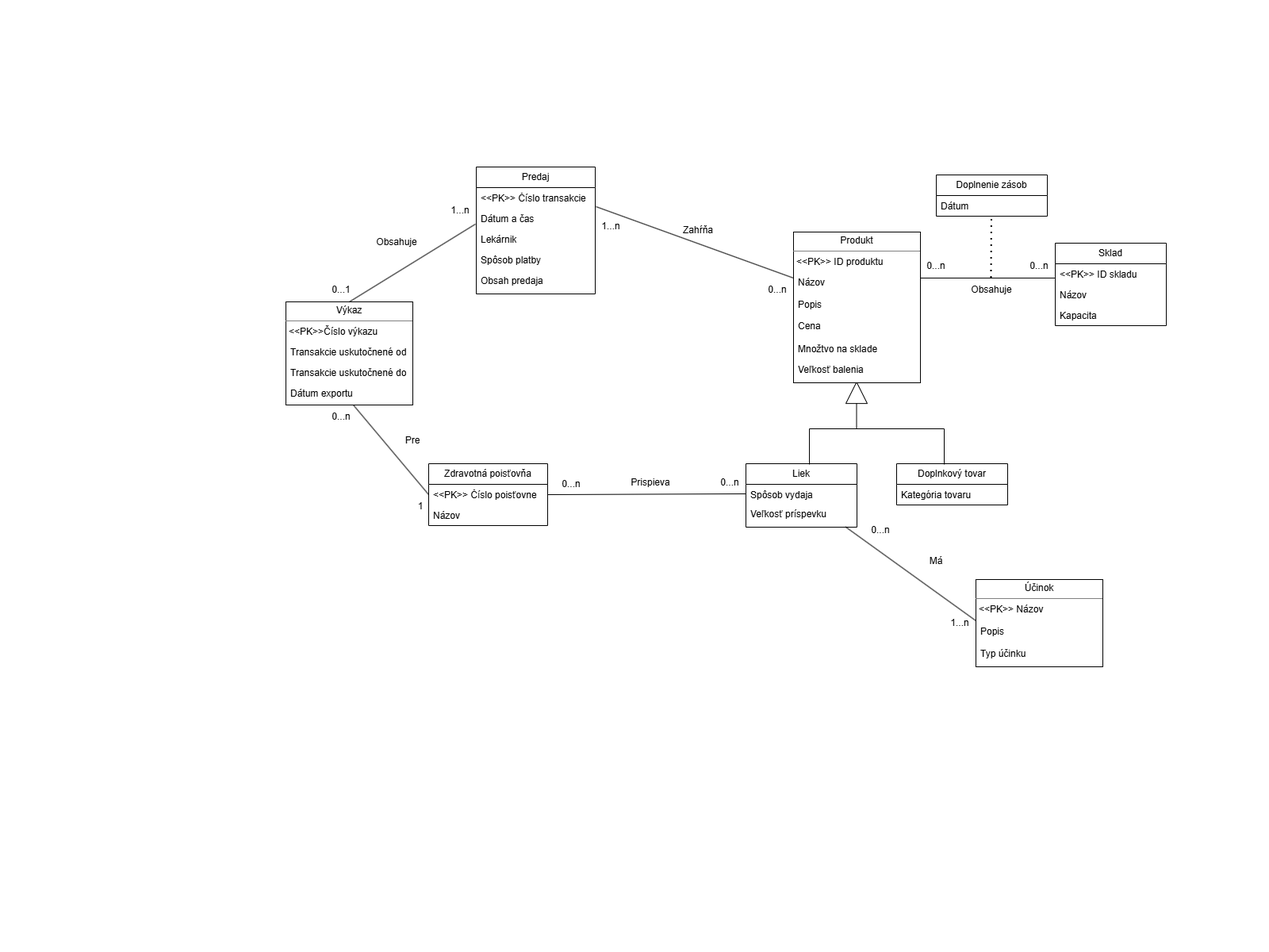
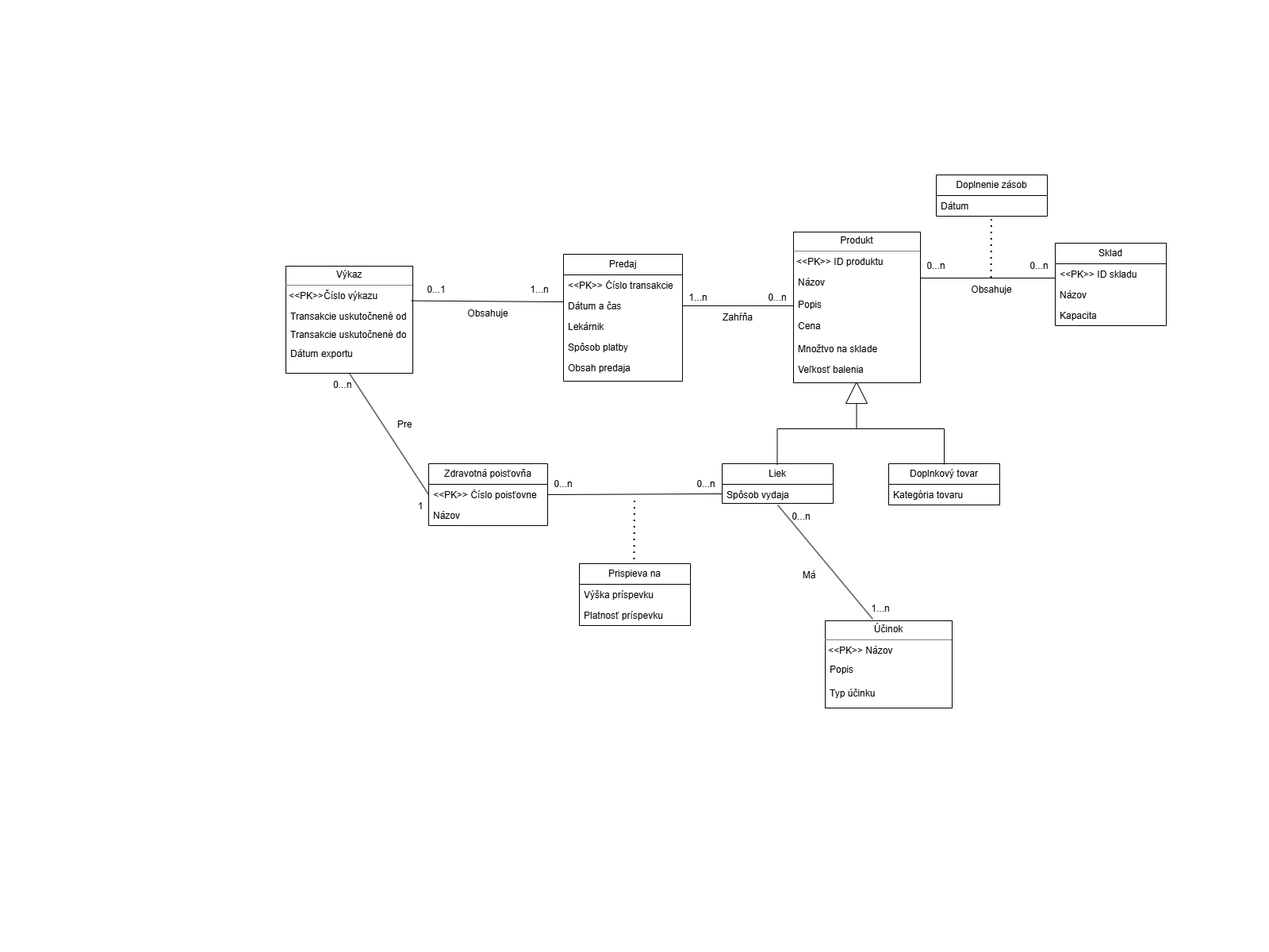
Improved design and added small changes to ERD

diff --git a/ERD_src.drawio.html b/ERD_src.drawio.html
@@ -1,0 +1,11 @@
+<!--[if IE]><meta http-equiv="X-UA-Compatible" content="IE=5,IE=9" ><![endif]-->
+<!DOCTYPE html>
+<html>
+<head>
+<title>ERD_src</title>
+<meta charset="utf-8"/>
+</head>
+<body><div class="mxgraph" style="max-width:100%;border:1px solid transparent;" data-mxgraph="{&quot;highlight&quot;:&quot;#0000ff&quot;,&quot;nav&quot;:true,&quot;resize&quot;:true,&quot;dark-mode&quot;:&quot;auto&quot;,&quot;toolbar&quot;:&quot;zoom layers tags lightbox&quot;,&quot;edit&quot;:&quot;_blank&quot;,&quot;xml&quot;:&quot;&lt;mxfile host=\&quot;app.diagrams.net\&quot; agent=\&quot;Mozilla/5.0 (Windows NT 10.0; Win64; x64) AppleWebKit/537.36 (KHTML, like Gecko) Chrome/145.0.0.0 Safari/537.36\&quot; version=\&quot;29.6.0\&quot;&gt;\n  &lt;diagram name=\&quot;Page-1\&quot; id=\&quot;HZyEYh7M0IWm2Qcd70Ao\&quot;&gt;\n    &lt;mxGraphModel dx=\&quot;1826\&quot; dy=\&quot;777\&quot; grid=\&quot;1\&quot; gridSize=\&quot;10\&quot; guides=\&quot;1\&quot; tooltips=\&quot;1\&quot; connect=\&quot;1\&quot; arrows=\&quot;1\&quot; fold=\&quot;1\&quot; page=\&quot;0\&quot; pageScale=\&quot;1\&quot; pageWidth=\&quot;827\&quot; pageHeight=\&quot;1169\&quot; background=\&quot;none\&quot; math=\&quot;0\&quot; shadow=\&quot;0\&quot;&gt;\n      &lt;root&gt;\n        &lt;mxCell id=\&quot;0\&quot; /&gt;\n        &lt;mxCell id=\&quot;1\&quot; parent=\&quot;0\&quot; /&gt;\n        &lt;mxCell id=\&quot;cHTT3dFJlnLi15qpV_ud-13\&quot; edge=\&quot;1\&quot; parent=\&quot;1\&quot; style=\&quot;rounded=0;orthogonalLoop=1;jettySize=auto;html=1;endArrow=block;endFill=0;endSize=26;startSize=9;targetPerimeterSpacing=0;\&quot;&gt;\n          &lt;mxGeometry relative=\&quot;1\&quot; as=\&quot;geometry\&quot;&gt;\n            &lt;mxPoint x=\&quot;679.5\&quot; y=\&quot;540\&quot; as=\&quot;sourcePoint\&quot; /&gt;\n            &lt;mxPoint x=\&quot;679.5\&quot; y=\&quot;480\&quot; as=\&quot;targetPoint\&quot; /&gt;\n          &lt;/mxGeometry&gt;\n        &lt;/mxCell&gt;\n        &lt;mxCell id=\&quot;fOH65YB3iZgLwqnxdQXM-5\&quot; parent=\&quot;1\&quot; style=\&quot;swimlane;fontStyle=0;childLayout=stackLayout;horizontal=1;startSize=26;fillColor=none;horizontalStack=0;resizeParent=1;resizeParentMax=0;resizeLast=0;collapsible=1;marginBottom=0;whiteSpace=wrap;html=1;labelBackgroundColor=none;\&quot; value=\&quot;Liek\&quot; vertex=\&quot;1\&quot;&gt;\n          &lt;mxGeometry height=\&quot;50\&quot; width=\&quot;140\&quot; x=\&quot;510\&quot; y=\&quot;584\&quot; as=\&quot;geometry\&quot;&gt;\n            &lt;mxRectangle height=\&quot;30\&quot; width=\&quot;60\&quot; x=\&quot;380\&quot; y=\&quot;170\&quot; as=\&quot;alternateBounds\&quot; /&gt;\n          &lt;/mxGeometry&gt;\n        &lt;/mxCell&gt;\n        &lt;mxCell id=\&quot;vvv7OHtfVEPnJKbW_BoI-4\&quot; parent=\&quot;fOH65YB3iZgLwqnxdQXM-5\&quot; style=\&quot;text;strokeColor=none;fillColor=none;align=left;verticalAlign=top;spacingLeft=4;spacingRight=4;overflow=hidden;rotatable=0;points=[[0,0.5],[1,0.5]];portConstraint=eastwest;whiteSpace=wrap;html=1;labelBackgroundColor=none;\&quot; value=\&quot;Spôsob vydaja&amp;lt;div&amp;gt;&amp;lt;br&amp;gt;&amp;lt;/div&amp;gt;\&quot; vertex=\&quot;1\&quot;&gt;\n          &lt;mxGeometry height=\&quot;24\&quot; width=\&quot;140\&quot; y=\&quot;26\&quot; as=\&quot;geometry\&quot; /&gt;\n        &lt;/mxCell&gt;\n        &lt;mxCell id=\&quot;fOH65YB3iZgLwqnxdQXM-16\&quot; edge=\&quot;1\&quot; parent=\&quot;1\&quot; style=\&quot;endArrow=none;html=1;rounded=0;labelBackgroundColor=none;fontColor=default;\&quot; value=\&quot;\&quot;&gt;\n          &lt;mxGeometry height=\&quot;50\&quot; relative=\&quot;1\&quot; width=\&quot;50\&quot; as=\&quot;geometry\&quot;&gt;\n            &lt;mxPoint x=\&quot;760\&quot; y=\&quot;350\&quot; as=\&quot;sourcePoint\&quot; /&gt;\n            &lt;mxPoint x=\&quot;930\&quot; y=\&quot;350\&quot; as=\&quot;targetPoint\&quot; /&gt;\n          &lt;/mxGeometry&gt;\n        &lt;/mxCell&gt;\n        &lt;mxCell id=\&quot;fOH65YB3iZgLwqnxdQXM-17\&quot; parent=\&quot;1\&quot; style=\&quot;swimlane;fontStyle=0;childLayout=stackLayout;horizontal=1;startSize=26;fillColor=none;horizontalStack=0;resizeParent=1;resizeParentMax=0;resizeLast=0;collapsible=1;marginBottom=0;whiteSpace=wrap;html=1;labelBackgroundColor=none;\&quot; value=\&quot;Sklad\&quot; vertex=\&quot;1\&quot;&gt;\n          &lt;mxGeometry height=\&quot;104\&quot; width=\&quot;140\&quot; x=\&quot;930\&quot; y=\&quot;306\&quot; as=\&quot;geometry\&quot; /&gt;\n        &lt;/mxCell&gt;\n        &lt;mxCell id=\&quot;fOH65YB3iZgLwqnxdQXM-18\&quot; parent=\&quot;fOH65YB3iZgLwqnxdQXM-17\&quot; style=\&quot;text;strokeColor=none;fillColor=none;align=left;verticalAlign=top;spacingLeft=4;spacingRight=4;overflow=hidden;rotatable=0;points=[[0,0.5],[1,0.5]];portConstraint=eastwest;whiteSpace=wrap;html=1;labelBackgroundColor=none;\&quot; value=\&quot;&amp;amp;lt;&amp;amp;lt;PK&amp;amp;gt;&amp;amp;gt; ID skladu\&quot; vertex=\&quot;1\&quot;&gt;\n          &lt;mxGeometry height=\&quot;26\&quot; width=\&quot;140\&quot; y=\&quot;26\&quot; as=\&quot;geometry\&quot; /&gt;\n        &lt;/mxCell&gt;\n        &lt;mxCell id=\&quot;fOH65YB3iZgLwqnxdQXM-19\&quot; parent=\&quot;fOH65YB3iZgLwqnxdQXM-17\&quot; style=\&quot;text;strokeColor=none;fillColor=none;align=left;verticalAlign=top;spacingLeft=4;spacingRight=4;overflow=hidden;rotatable=0;points=[[0,0.5],[1,0.5]];portConstraint=eastwest;whiteSpace=wrap;html=1;labelBackgroundColor=none;\&quot; value=\&quot;Názov\&quot; vertex=\&quot;1\&quot;&gt;\n          &lt;mxGeometry height=\&quot;26\&quot; width=\&quot;140\&quot; y=\&quot;52\&quot; as=\&quot;geometry\&quot; /&gt;\n        &lt;/mxCell&gt;\n        &lt;mxCell id=\&quot;fOH65YB3iZgLwqnxdQXM-20\&quot; parent=\&quot;fOH65YB3iZgLwqnxdQXM-17\&quot; style=\&quot;text;strokeColor=none;fillColor=none;align=left;verticalAlign=top;spacingLeft=4;spacingRight=4;overflow=hidden;rotatable=0;points=[[0,0.5],[1,0.5]];portConstraint=eastwest;whiteSpace=wrap;html=1;labelBackgroundColor=none;\&quot; value=\&quot;Kapacita\&quot; vertex=\&quot;1\&quot;&gt;\n          &lt;mxGeometry height=\&quot;26\&quot; width=\&quot;140\&quot; y=\&quot;78\&quot; as=\&quot;geometry\&quot; /&gt;\n        &lt;/mxCell&gt;\n        &lt;mxCell id=\&quot;fOH65YB3iZgLwqnxdQXM-21\&quot; parent=\&quot;1\&quot; style=\&quot;text;html=1;whiteSpace=wrap;strokeColor=none;fillColor=none;align=center;verticalAlign=middle;rounded=0;labelBackgroundColor=none;\&quot; value=\&quot;Obsahuje\&quot; vertex=\&quot;1\&quot;&gt;\n          &lt;mxGeometry height=\&quot;30\&quot; width=\&quot;60\&quot; x=\&quot;820\&quot; y=\&quot;350\&quot; as=\&quot;geometry\&quot; /&gt;\n        &lt;/mxCell&gt;\n        &lt;mxCell id=\&quot;fOH65YB3iZgLwqnxdQXM-22\&quot; parent=\&quot;1\&quot; style=\&quot;text;html=1;whiteSpace=wrap;strokeColor=none;fillColor=none;align=center;verticalAlign=middle;rounded=0;labelBackgroundColor=none;\&quot; value=\&quot;0...n\&quot; vertex=\&quot;1\&quot;&gt;\n          &lt;mxGeometry height=\&quot;30\&quot; width=\&quot;60\&quot; x=\&quot;880\&quot; y=\&quot;320\&quot; as=\&quot;geometry\&quot; /&gt;\n        &lt;/mxCell&gt;\n        &lt;mxCell id=\&quot;fOH65YB3iZgLwqnxdQXM-23\&quot; parent=\&quot;1\&quot; style=\&quot;text;html=1;whiteSpace=wrap;strokeColor=none;fillColor=none;align=center;verticalAlign=middle;rounded=0;labelBackgroundColor=none;\&quot; value=\&quot;0...n\&quot; vertex=\&quot;1\&quot;&gt;\n          &lt;mxGeometry height=\&quot;30\&quot; width=\&quot;60\&quot; x=\&quot;750\&quot; y=\&quot;320\&quot; as=\&quot;geometry\&quot; /&gt;\n        &lt;/mxCell&gt;\n        &lt;mxCell id=\&quot;fOH65YB3iZgLwqnxdQXM-24\&quot; edge=\&quot;1\&quot; parent=\&quot;1\&quot; style=\&quot;endArrow=none;dashed=1;html=1;dashPattern=1 3;strokeWidth=2;rounded=0;labelBackgroundColor=none;fontColor=default;\&quot; value=\&quot;\&quot;&gt;\n          &lt;mxGeometry height=\&quot;50\&quot; relative=\&quot;1\&quot; width=\&quot;50\&quot; as=\&quot;geometry\&quot;&gt;\n            &lt;mxPoint x=\&quot;849.5\&quot; y=\&quot;350\&quot; as=\&quot;sourcePoint\&quot; /&gt;\n            &lt;mxPoint x=\&quot;850\&quot; y=\&quot;270\&quot; as=\&quot;targetPoint\&quot; /&gt;\n          &lt;/mxGeometry&gt;\n        &lt;/mxCell&gt;\n        &lt;mxCell id=\&quot;fOH65YB3iZgLwqnxdQXM-25\&quot; parent=\&quot;1\&quot; style=\&quot;swimlane;fontStyle=0;childLayout=stackLayout;horizontal=1;startSize=26;fillColor=none;horizontalStack=0;resizeParent=1;resizeParentMax=0;resizeLast=0;collapsible=1;marginBottom=0;whiteSpace=wrap;html=1;labelBackgroundColor=none;\&quot; value=\&quot;Doplnenie zásob\&quot; vertex=\&quot;1\&quot;&gt;\n          &lt;mxGeometry height=\&quot;52\&quot; width=\&quot;140\&quot; x=\&quot;780\&quot; y=\&quot;220\&quot; as=\&quot;geometry\&quot; /&gt;\n        &lt;/mxCell&gt;\n        &lt;mxCell id=\&quot;fOH65YB3iZgLwqnxdQXM-26\&quot; parent=\&quot;fOH65YB3iZgLwqnxdQXM-25\&quot; style=\&quot;text;strokeColor=none;fillColor=none;align=left;verticalAlign=top;spacingLeft=4;spacingRight=4;overflow=hidden;rotatable=0;points=[[0,0.5],[1,0.5]];portConstraint=eastwest;whiteSpace=wrap;html=1;labelBackgroundColor=none;\&quot; value=\&quot;Dátum\&quot; vertex=\&quot;1\&quot;&gt;\n          &lt;mxGeometry height=\&quot;26\&quot; width=\&quot;140\&quot; y=\&quot;26\&quot; as=\&quot;geometry\&quot; /&gt;\n        &lt;/mxCell&gt;\n        &lt;mxCell id=\&quot;fOH65YB3iZgLwqnxdQXM-29\&quot; parent=\&quot;1\&quot; style=\&quot;swimlane;fontStyle=0;childLayout=stackLayout;horizontal=1;startSize=26;fillColor=none;horizontalStack=0;resizeParent=1;resizeParentMax=0;resizeLast=0;collapsible=1;marginBottom=0;whiteSpace=wrap;html=1;labelBackgroundColor=none;\&quot; value=\&quot;Predaj\&quot; vertex=\&quot;1\&quot;&gt;\n          &lt;mxGeometry height=\&quot;160\&quot; width=\&quot;150\&quot; x=\&quot;310\&quot; y=\&quot;320\&quot; as=\&quot;geometry\&quot; /&gt;\n        &lt;/mxCell&gt;\n        &lt;mxCell id=\&quot;fOH65YB3iZgLwqnxdQXM-30\&quot; parent=\&quot;fOH65YB3iZgLwqnxdQXM-29\&quot; style=\&quot;text;strokeColor=none;fillColor=none;align=left;verticalAlign=top;spacingLeft=4;spacingRight=4;overflow=hidden;rotatable=0;points=[[0,0.5],[1,0.5]];portConstraint=eastwest;whiteSpace=wrap;html=1;labelBackgroundColor=none;\&quot; value=\&quot;&amp;amp;lt;&amp;amp;lt;PK&amp;amp;gt;&amp;amp;gt; Číslo transakcie\&quot; vertex=\&quot;1\&quot;&gt;\n          &lt;mxGeometry height=\&quot;26\&quot; width=\&quot;150\&quot; y=\&quot;26\&quot; as=\&quot;geometry\&quot; /&gt;\n        &lt;/mxCell&gt;\n        &lt;mxCell id=\&quot;fOH65YB3iZgLwqnxdQXM-31\&quot; parent=\&quot;fOH65YB3iZgLwqnxdQXM-29\&quot; style=\&quot;text;strokeColor=none;fillColor=none;align=left;verticalAlign=top;spacingLeft=4;spacingRight=4;overflow=hidden;rotatable=0;points=[[0,0.5],[1,0.5]];portConstraint=eastwest;whiteSpace=wrap;html=1;labelBackgroundColor=none;\&quot; value=\&quot;Dátum a čas\&quot; vertex=\&quot;1\&quot;&gt;\n          &lt;mxGeometry height=\&quot;26\&quot; width=\&quot;150\&quot; y=\&quot;52\&quot; as=\&quot;geometry\&quot; /&gt;\n        &lt;/mxCell&gt;\n        &lt;mxCell id=\&quot;fOH65YB3iZgLwqnxdQXM-34\&quot; parent=\&quot;fOH65YB3iZgLwqnxdQXM-29\&quot; style=\&quot;text;strokeColor=none;fillColor=none;align=left;verticalAlign=top;spacingLeft=4;spacingRight=4;overflow=hidden;rotatable=0;points=[[0,0.5],[1,0.5]];portConstraint=eastwest;whiteSpace=wrap;html=1;labelBackgroundColor=none;\&quot; value=\&quot;Lekárnik\&quot; vertex=\&quot;1\&quot;&gt;\n          &lt;mxGeometry height=\&quot;26\&quot; width=\&quot;150\&quot; y=\&quot;78\&quot; as=\&quot;geometry\&quot; /&gt;\n        &lt;/mxCell&gt;\n        &lt;mxCell id=\&quot;fOH65YB3iZgLwqnxdQXM-35\&quot; parent=\&quot;fOH65YB3iZgLwqnxdQXM-29\&quot; style=\&quot;text;strokeColor=none;fillColor=none;align=left;verticalAlign=top;spacingLeft=4;spacingRight=4;overflow=hidden;rotatable=0;points=[[0,0.5],[1,0.5]];portConstraint=eastwest;whiteSpace=wrap;html=1;labelBackgroundColor=none;\&quot; value=\&quot;Spôsob platby\&quot; vertex=\&quot;1\&quot;&gt;\n          &lt;mxGeometry height=\&quot;26\&quot; width=\&quot;150\&quot; y=\&quot;104\&quot; as=\&quot;geometry\&quot; /&gt;\n        &lt;/mxCell&gt;\n        &lt;mxCell id=\&quot;fOH65YB3iZgLwqnxdQXM-32\&quot; parent=\&quot;fOH65YB3iZgLwqnxdQXM-29\&quot; style=\&quot;text;strokeColor=none;fillColor=none;align=left;verticalAlign=top;spacingLeft=4;spacingRight=4;overflow=hidden;rotatable=0;points=[[0,0.5],[1,0.5]];portConstraint=eastwest;whiteSpace=wrap;html=1;labelBackgroundColor=none;\&quot; value=\&quot;Obsah predaja\&quot; vertex=\&quot;1\&quot;&gt;\n          &lt;mxGeometry height=\&quot;30\&quot; width=\&quot;150\&quot; y=\&quot;130\&quot; as=\&quot;geometry\&quot; /&gt;\n        &lt;/mxCell&gt;\n        &lt;mxCell id=\&quot;fOH65YB3iZgLwqnxdQXM-33\&quot; edge=\&quot;1\&quot; parent=\&quot;1\&quot; source=\&quot;fOH65YB3iZgLwqnxdQXM-31\&quot; style=\&quot;endArrow=none;html=1;rounded=0;labelBackgroundColor=none;fontColor=default;entryX=0;entryY=0.5;entryDx=0;entryDy=0;\&quot; target=\&quot;cHTT3dFJlnLi15qpV_ud-5\&quot; value=\&quot;\&quot;&gt;\n          &lt;mxGeometry height=\&quot;50\&quot; relative=\&quot;1\&quot; width=\&quot;50\&quot; as=\&quot;geometry\&quot;&gt;\n            &lt;mxPoint x=\&quot;361\&quot; y=\&quot;320\&quot; as=\&quot;sourcePoint\&quot; /&gt;\n            &lt;mxPoint x=\&quot;610\&quot; y=\&quot;410.01\&quot; as=\&quot;targetPoint\&quot; /&gt;\n          &lt;/mxGeometry&gt;\n        &lt;/mxCell&gt;\n        &lt;mxCell id=\&quot;fOH65YB3iZgLwqnxdQXM-44\&quot; parent=\&quot;1\&quot; style=\&quot;text;html=1;whiteSpace=wrap;strokeColor=none;fillColor=none;align=center;verticalAlign=middle;rounded=0;labelBackgroundColor=none;\&quot; value=\&quot;Zahŕňa\&quot; vertex=\&quot;1\&quot;&gt;\n          &lt;mxGeometry height=\&quot;30\&quot; width=\&quot;60\&quot; x=\&quot;500\&quot; y=\&quot;385\&quot; as=\&quot;geometry\&quot; /&gt;\n        &lt;/mxCell&gt;\n        &lt;mxCell id=\&quot;fOH65YB3iZgLwqnxdQXM-45\&quot; parent=\&quot;1\&quot; style=\&quot;text;html=1;whiteSpace=wrap;strokeColor=none;fillColor=none;align=center;verticalAlign=middle;rounded=0;labelBackgroundColor=none;\&quot; value=\&quot;1...n\&quot; vertex=\&quot;1\&quot;&gt;\n          &lt;mxGeometry height=\&quot;30\&quot; width=\&quot;60\&quot; x=\&quot;450\&quot; y=\&quot;360\&quot; as=\&quot;geometry\&quot; /&gt;\n        &lt;/mxCell&gt;\n        &lt;mxCell id=\&quot;fOH65YB3iZgLwqnxdQXM-46\&quot; parent=\&quot;1\&quot; style=\&quot;text;html=1;whiteSpace=wrap;strokeColor=none;fillColor=none;align=center;verticalAlign=middle;rounded=0;labelBackgroundColor=none;\&quot; value=\&quot;0...n\&quot; vertex=\&quot;1\&quot;&gt;\n          &lt;mxGeometry height=\&quot;30\&quot; width=\&quot;60\&quot; x=\&quot;550\&quot; y=\&quot;360\&quot; as=\&quot;geometry\&quot; /&gt;\n        &lt;/mxCell&gt;\n        &lt;mxCell id=\&quot;fOH65YB3iZgLwqnxdQXM-47\&quot; parent=\&quot;1\&quot; style=\&quot;swimlane;fontStyle=0;childLayout=stackLayout;horizontal=1;startSize=26;fillColor=none;horizontalStack=0;resizeParent=1;resizeParentMax=0;resizeLast=0;collapsible=1;marginBottom=0;whiteSpace=wrap;html=1;labelBackgroundColor=none;\&quot; value=\&quot;Zdravotná poisťovňa\&quot; vertex=\&quot;1\&quot;&gt;\n          &lt;mxGeometry height=\&quot;78\&quot; width=\&quot;150\&quot; x=\&quot;140\&quot; y=\&quot;584\&quot; as=\&quot;geometry\&quot;&gt;\n            &lt;mxRectangle height=\&quot;30\&quot; width=\&quot;150\&quot; x=\&quot;40\&quot; y=\&quot;533\&quot; as=\&quot;alternateBounds\&quot; /&gt;\n          &lt;/mxGeometry&gt;\n        &lt;/mxCell&gt;\n        &lt;mxCell id=\&quot;fOH65YB3iZgLwqnxdQXM-48\&quot; parent=\&quot;fOH65YB3iZgLwqnxdQXM-47\&quot; style=\&quot;text;strokeColor=none;fillColor=none;align=left;verticalAlign=top;spacingLeft=4;spacingRight=4;overflow=hidden;rotatable=0;points=[[0,0.5],[1,0.5]];portConstraint=eastwest;whiteSpace=wrap;html=1;labelBackgroundColor=none;\&quot; value=\&quot;&amp;amp;lt;&amp;amp;lt;PK&amp;amp;gt;&amp;amp;gt; Číslo poisťovne\&quot; vertex=\&quot;1\&quot;&gt;\n          &lt;mxGeometry height=\&quot;26\&quot; width=\&quot;150\&quot; y=\&quot;26\&quot; as=\&quot;geometry\&quot; /&gt;\n        &lt;/mxCell&gt;\n        &lt;mxCell id=\&quot;fOH65YB3iZgLwqnxdQXM-49\&quot; parent=\&quot;fOH65YB3iZgLwqnxdQXM-47\&quot; style=\&quot;text;strokeColor=none;fillColor=none;align=left;verticalAlign=top;spacingLeft=4;spacingRight=4;overflow=hidden;rotatable=0;points=[[0,0.5],[1,0.5]];portConstraint=eastwest;whiteSpace=wrap;html=1;labelBackgroundColor=none;\&quot; value=\&quot;Názov\&quot; vertex=\&quot;1\&quot;&gt;\n          &lt;mxGeometry height=\&quot;26\&quot; width=\&quot;150\&quot; y=\&quot;52\&quot; as=\&quot;geometry\&quot; /&gt;\n        &lt;/mxCell&gt;\n        &lt;mxCell id=\&quot;fOH65YB3iZgLwqnxdQXM-58\&quot; parent=\&quot;1\&quot; style=\&quot;text;html=1;whiteSpace=wrap;strokeColor=none;fillColor=none;align=center;verticalAlign=middle;rounded=0;labelBackgroundColor=none;\&quot; value=\&quot;0...n\&quot; vertex=\&quot;1\&quot;&gt;\n          &lt;mxGeometry height=\&quot;30\&quot; width=\&quot;60\&quot; x=\&quot;460\&quot; y=\&quot;595\&quot; as=\&quot;geometry\&quot; /&gt;\n        &lt;/mxCell&gt;\n        &lt;mxCell id=\&quot;fOH65YB3iZgLwqnxdQXM-59\&quot; parent=\&quot;1\&quot; style=\&quot;text;html=1;whiteSpace=wrap;strokeColor=none;fillColor=none;align=center;verticalAlign=middle;rounded=0;labelBackgroundColor=none;\&quot; value=\&quot;0...n\&quot; vertex=\&quot;1\&quot;&gt;\n          &lt;mxGeometry height=\&quot;30\&quot; width=\&quot;60\&quot; x=\&quot;280\&quot; y=\&quot;595\&quot; as=\&quot;geometry\&quot; /&gt;\n        &lt;/mxCell&gt;\n        &lt;mxCell id=\&quot;fOH65YB3iZgLwqnxdQXM-62\&quot; parent=\&quot;1\&quot; style=\&quot;text;html=1;whiteSpace=wrap;strokeColor=none;fillColor=none;align=center;verticalAlign=middle;rounded=0;labelBackgroundColor=none;\&quot; value=\&quot;Pre\&quot; vertex=\&quot;1\&quot;&gt;\n          &lt;mxGeometry height=\&quot;30\&quot; width=\&quot;60\&quot; x=\&quot;80\&quot; y=\&quot;520\&quot; as=\&quot;geometry\&quot; /&gt;\n        &lt;/mxCell&gt;\n        &lt;mxCell id=\&quot;fOH65YB3iZgLwqnxdQXM-65\&quot; parent=\&quot;1\&quot; style=\&quot;text;html=1;whiteSpace=wrap;strokeColor=none;fillColor=none;align=center;verticalAlign=middle;rounded=0;labelBackgroundColor=none;\&quot; value=\&quot;1\&quot; vertex=\&quot;1\&quot;&gt;\n          &lt;mxGeometry height=\&quot;30\&quot; width=\&quot;60\&quot; x=\&quot;100\&quot; y=\&quot;623\&quot; as=\&quot;geometry\&quot; /&gt;\n        &lt;/mxCell&gt;\n        &lt;mxCell id=\&quot;oGeKyLUdjHT86mhDsz0i-1\&quot; parent=\&quot;1\&quot; style=\&quot;verticalAlign=top;align=left;overflow=fill;html=1;whiteSpace=wrap;labelBackgroundColor=none;\&quot; value=\&quot;&amp;lt;p style=&amp;quot;margin:0px;margin-top:4px;text-align:center;&amp;quot;&amp;gt;&amp;lt;span style=&amp;quot;text-align: left;&amp;quot;&amp;gt;Účinok&amp;lt;/span&amp;gt;&amp;lt;/p&amp;gt;&amp;lt;hr size=&amp;quot;1&amp;quot; style=&amp;quot;border-style:solid;&amp;quot;&amp;gt;&amp;lt;p style=&amp;quot;margin:0px;margin-left:4px;&amp;quot;&amp;gt;&amp;lt;/p&amp;gt;&amp;lt;p style=&amp;quot;margin:0px;margin-left:4px;&amp;quot;&amp;gt;&amp;lt;span style=&amp;quot;background-color: transparent; color: light-dark(rgb(0, 0, 0), rgb(255, 255, 255));&amp;quot;&amp;gt;&amp;amp;lt;&amp;amp;lt;PK&amp;amp;gt;&amp;amp;gt; Názov&amp;lt;/span&amp;gt;&amp;lt;/p&amp;gt;\&quot; vertex=\&quot;1\&quot;&gt;\n          &lt;mxGeometry height=\&quot;110\&quot; width=\&quot;160\&quot; x=\&quot;640\&quot; y=\&quot;782\&quot; as=\&quot;geometry\&quot; /&gt;\n        &lt;/mxCell&gt;\n        &lt;mxCell id=\&quot;oGeKyLUdjHT86mhDsz0i-2\&quot; edge=\&quot;1\&quot; parent=\&quot;1\&quot; source=\&quot;oGeKyLUdjHT86mhDsz0i-1\&quot; style=\&quot;edgeStyle=orthogonalEdgeStyle;rounded=0;orthogonalLoop=1;jettySize=auto;html=1;exitX=0.5;exitY=1;exitDx=0;exitDy=0;labelBackgroundColor=none;fontColor=default;\&quot; target=\&quot;oGeKyLUdjHT86mhDsz0i-1\&quot;&gt;\n          &lt;mxGeometry relative=\&quot;1\&quot; as=\&quot;geometry\&quot; /&gt;\n        &lt;/mxCell&gt;\n        &lt;mxCell id=\&quot;oGeKyLUdjHT86mhDsz0i-5\&quot; edge=\&quot;1\&quot; parent=\&quot;1\&quot; source=\&quot;oGeKyLUdjHT86mhDsz0i-1\&quot; style=\&quot;edgeStyle=orthogonalEdgeStyle;rounded=0;orthogonalLoop=1;jettySize=auto;html=1;exitX=0.5;exitY=1;exitDx=0;exitDy=0;labelBackgroundColor=none;fontColor=default;\&quot; target=\&quot;oGeKyLUdjHT86mhDsz0i-1\&quot;&gt;\n          &lt;mxGeometry relative=\&quot;1\&quot; as=\&quot;geometry\&quot; /&gt;\n        &lt;/mxCell&gt;\n        &lt;mxCell id=\&quot;fOH65YB3iZgLwqnxdQXM-40\&quot; parent=\&quot;1\&quot; style=\&quot;text;strokeColor=none;fillColor=none;align=left;verticalAlign=top;spacingLeft=4;spacingRight=4;overflow=hidden;rotatable=0;points=[[0,0.5],[1,0.5]];portConstraint=eastwest;whiteSpace=wrap;html=1;labelBackgroundColor=none;\&quot; value=\&quot;Popis\&quot; vertex=\&quot;1\&quot;&gt;\n          &lt;mxGeometry height=\&quot;30\&quot; width=\&quot;160\&quot; x=\&quot;640\&quot; y=\&quot;830\&quot; as=\&quot;geometry\&quot; /&gt;\n        &lt;/mxCell&gt;\n        &lt;mxCell id=\&quot;oGeKyLUdjHT86mhDsz0i-6\&quot; parent=\&quot;1\&quot; style=\&quot;text;strokeColor=none;fillColor=none;align=left;verticalAlign=top;spacingLeft=4;spacingRight=4;overflow=hidden;rotatable=0;points=[[0,0.5],[1,0.5]];portConstraint=eastwest;whiteSpace=wrap;html=1;labelBackgroundColor=none;\&quot; value=\&quot;Typ účinku\&quot; vertex=\&quot;1\&quot;&gt;\n          &lt;mxGeometry height=\&quot;30\&quot; width=\&quot;160\&quot; x=\&quot;640\&quot; y=\&quot;860\&quot; as=\&quot;geometry\&quot; /&gt;\n        &lt;/mxCell&gt;\n        &lt;mxCell id=\&quot;oGeKyLUdjHT86mhDsz0i-7\&quot; edge=\&quot;1\&quot; parent=\&quot;1\&quot; style=\&quot;endArrow=none;html=1;rounded=0;labelBackgroundColor=none;fontColor=default;exitX=0.897;exitY=0.988;exitDx=0;exitDy=0;exitPerimeter=0;\&quot; value=\&quot;\&quot;&gt;\n          &lt;mxGeometry height=\&quot;50\&quot; relative=\&quot;1\&quot; width=\&quot;50\&quot; as=\&quot;geometry\&quot;&gt;\n            &lt;mxPoint x=\&quot;579.9999999999999\&quot; y=\&quot;636.0000000000001\&quot; as=\&quot;sourcePoint\&quot; /&gt;\n            &lt;mxPoint x=\&quot;700\&quot; y=\&quot;780\&quot; as=\&quot;targetPoint\&quot; /&gt;\n          &lt;/mxGeometry&gt;\n        &lt;/mxCell&gt;\n        &lt;mxCell id=\&quot;oGeKyLUdjHT86mhDsz0i-9\&quot; parent=\&quot;1\&quot; style=\&quot;text;html=1;whiteSpace=wrap;strokeColor=none;fillColor=none;align=center;verticalAlign=middle;rounded=0;labelBackgroundColor=none;\&quot; value=\&quot;Má\&quot; vertex=\&quot;1\&quot;&gt;\n          &lt;mxGeometry height=\&quot;30\&quot; width=\&quot;60\&quot; x=\&quot;590\&quot; y=\&quot;710\&quot; as=\&quot;geometry\&quot; /&gt;\n        &lt;/mxCell&gt;\n        &lt;mxCell id=\&quot;oGeKyLUdjHT86mhDsz0i-10\&quot; parent=\&quot;1\&quot; style=\&quot;text;html=1;whiteSpace=wrap;strokeColor=none;fillColor=none;align=center;verticalAlign=middle;rounded=0;labelBackgroundColor=none;\&quot; value=\&quot;0...n\&quot; vertex=\&quot;1\&quot;&gt;\n          &lt;mxGeometry height=\&quot;30\&quot; width=\&quot;60\&quot; x=\&quot;580\&quot; y=\&quot;636\&quot; as=\&quot;geometry\&quot; /&gt;\n        &lt;/mxCell&gt;\n        &lt;mxCell id=\&quot;oGeKyLUdjHT86mhDsz0i-11\&quot; parent=\&quot;1\&quot; style=\&quot;text;html=1;whiteSpace=wrap;strokeColor=none;fillColor=none;align=center;verticalAlign=middle;rounded=0;labelBackgroundColor=none;\&quot; value=\&quot;1...n\&quot; vertex=\&quot;1\&quot;&gt;\n          &lt;mxGeometry height=\&quot;30\&quot; width=\&quot;60\&quot; x=\&quot;680\&quot; y=\&quot;752\&quot; as=\&quot;geometry\&quot; /&gt;\n        &lt;/mxCell&gt;\n        &lt;mxCell id=\&quot;oGeKyLUdjHT86mhDsz0i-12\&quot; edge=\&quot;1\&quot; parent=\&quot;1\&quot; source=\&quot;oGeKyLUdjHT86mhDsz0i-11\&quot; style=\&quot;edgeStyle=orthogonalEdgeStyle;rounded=0;orthogonalLoop=1;jettySize=auto;html=1;exitX=0.5;exitY=1;exitDx=0;exitDy=0;labelBackgroundColor=none;fontColor=default;\&quot; target=\&quot;oGeKyLUdjHT86mhDsz0i-11\&quot;&gt;\n          &lt;mxGeometry relative=\&quot;1\&quot; as=\&quot;geometry\&quot; /&gt;\n        &lt;/mxCell&gt;\n        &lt;mxCell id=\&quot;vvv7OHtfVEPnJKbW_BoI-5\&quot; parent=\&quot;1\&quot; style=\&quot;verticalAlign=top;align=left;overflow=fill;html=1;whiteSpace=wrap;labelBackgroundColor=none;\&quot; value=\&quot;&amp;lt;p style=&amp;quot;margin:0px;margin-top:4px;text-align:center;&amp;quot;&amp;gt;&amp;lt;span style=&amp;quot;text-align: left;&amp;quot;&amp;gt;Výkaz&amp;lt;/span&amp;gt;&amp;lt;/p&amp;gt;&amp;lt;hr size=&amp;quot;1&amp;quot; style=&amp;quot;border-style:solid;&amp;quot;&amp;gt;&amp;lt;p style=&amp;quot;margin:0px;margin-left:4px;&amp;quot;&amp;gt;&amp;lt;/p&amp;gt;&amp;lt;p style=&amp;quot;margin:0px;margin-left:4px;&amp;quot;&amp;gt;&amp;lt;span style=&amp;quot;background-color: transparent; color: light-dark(rgb(0, 0, 0), rgb(255, 255, 255));&amp;quot;&amp;gt;&amp;amp;lt;&amp;amp;lt;PK&amp;amp;gt;&amp;amp;gt;Číslo výkazu&amp;lt;/span&amp;gt;&amp;lt;/p&amp;gt;\&quot; vertex=\&quot;1\&quot;&gt;\n          &lt;mxGeometry height=\&quot;135\&quot; width=\&quot;160\&quot; x=\&quot;-40\&quot; y=\&quot;335\&quot; as=\&quot;geometry\&quot; /&gt;\n        &lt;/mxCell&gt;\n        &lt;mxCell id=\&quot;fOH65YB3iZgLwqnxdQXM-61\&quot; edge=\&quot;1\&quot; parent=\&quot;1\&quot; source=\&quot;fOH65YB3iZgLwqnxdQXM-48\&quot; style=\&quot;endArrow=none;html=1;rounded=0;exitX=0;exitY=0.5;exitDx=0;exitDy=0;labelBackgroundColor=none;fontColor=default;entryX=0.5;entryY=0;entryDx=0;entryDy=0;\&quot; target=\&quot;vvv7OHtfVEPnJKbW_BoI-12\&quot; value=\&quot;\&quot;&gt;\n          &lt;mxGeometry height=\&quot;50\&quot; relative=\&quot;1\&quot; width=\&quot;50\&quot; as=\&quot;geometry\&quot;&gt;\n            &lt;mxPoint x=\&quot;220\&quot; y=\&quot;420\&quot; as=\&quot;sourcePoint\&quot; /&gt;\n            &lt;mxPoint x=\&quot;40\&quot; y=\&quot;460\&quot; as=\&quot;targetPoint\&quot; /&gt;\n          &lt;/mxGeometry&gt;\n        &lt;/mxCell&gt;\n        &lt;mxCell id=\&quot;vvv7OHtfVEPnJKbW_BoI-6\&quot; parent=\&quot;1\&quot; style=\&quot;text;strokeColor=none;fillColor=none;align=left;verticalAlign=top;spacingLeft=4;spacingRight=4;overflow=hidden;rotatable=0;points=[[0,0.5],[1,0.5]];portConstraint=eastwest;whiteSpace=wrap;html=1;labelBackgroundColor=none;\&quot; value=\&quot;Transakcie uskutočnené od\&quot; vertex=\&quot;1\&quot;&gt;\n          &lt;mxGeometry height=\&quot;26\&quot; width=\&quot;160\&quot; x=\&quot;-40\&quot; y=\&quot;385\&quot; as=\&quot;geometry\&quot; /&gt;\n        &lt;/mxCell&gt;\n        &lt;mxCell id=\&quot;vvv7OHtfVEPnJKbW_BoI-7\&quot; parent=\&quot;1\&quot; style=\&quot;text;strokeColor=none;fillColor=none;align=left;verticalAlign=top;spacingLeft=4;spacingRight=4;overflow=hidden;rotatable=0;points=[[0,0.5],[1,0.5]];portConstraint=eastwest;whiteSpace=wrap;html=1;labelBackgroundColor=none;\&quot; value=\&quot;Transakcie uskutočnené do\&quot; vertex=\&quot;1\&quot;&gt;\n          &lt;mxGeometry height=\&quot;74\&quot; width=\&quot;160\&quot; x=\&quot;-40\&quot; y=\&quot;408\&quot; as=\&quot;geometry\&quot; /&gt;\n        &lt;/mxCell&gt;\n        &lt;mxCell id=\&quot;vvv7OHtfVEPnJKbW_BoI-8\&quot; edge=\&quot;1\&quot; parent=\&quot;1\&quot; style=\&quot;endArrow=none;html=1;rounded=0;labelBackgroundColor=none;fontColor=default;entryX=0.988;entryY=0.323;entryDx=0;entryDy=0;entryPerimeter=0;\&quot; target=\&quot;vvv7OHtfVEPnJKbW_BoI-5\&quot; value=\&quot;\&quot;&gt;\n          &lt;mxGeometry height=\&quot;50\&quot; relative=\&quot;1\&quot; width=\&quot;50\&quot; as=\&quot;geometry\&quot;&gt;\n            &lt;mxPoint x=\&quot;310\&quot; y=\&quot;380\&quot; as=\&quot;sourcePoint\&quot; /&gt;\n            &lt;mxPoint x=\&quot;310\&quot; y=\&quot;500\&quot; as=\&quot;targetPoint\&quot; /&gt;\n          &lt;/mxGeometry&gt;\n        &lt;/mxCell&gt;\n        &lt;mxCell id=\&quot;vvv7OHtfVEPnJKbW_BoI-9\&quot; parent=\&quot;1\&quot; style=\&quot;text;html=1;whiteSpace=wrap;strokeColor=none;fillColor=none;align=center;verticalAlign=middle;rounded=0;\&quot; value=\&quot;Obsahuje\&quot; vertex=\&quot;1\&quot;&gt;\n          &lt;mxGeometry height=\&quot;30\&quot; width=\&quot;60\&quot; x=\&quot;185\&quot; y=\&quot;380\&quot; as=\&quot;geometry\&quot; /&gt;\n        &lt;/mxCell&gt;\n        &lt;mxCell id=\&quot;vvv7OHtfVEPnJKbW_BoI-10\&quot; parent=\&quot;1\&quot; style=\&quot;text;html=1;whiteSpace=wrap;strokeColor=none;fillColor=none;align=center;verticalAlign=middle;rounded=0;\&quot; value=\&quot;0...1\&quot; vertex=\&quot;1\&quot;&gt;\n          &lt;mxGeometry height=\&quot;30\&quot; width=\&quot;60\&quot; x=\&quot;120\&quot; y=\&quot;350\&quot; as=\&quot;geometry\&quot; /&gt;\n        &lt;/mxCell&gt;\n        &lt;mxCell id=\&quot;vvv7OHtfVEPnJKbW_BoI-11\&quot; parent=\&quot;1\&quot; style=\&quot;text;html=1;whiteSpace=wrap;strokeColor=none;fillColor=none;align=center;verticalAlign=middle;rounded=0;\&quot; value=\&quot;1...n\&quot; vertex=\&quot;1\&quot;&gt;\n          &lt;mxGeometry height=\&quot;30\&quot; width=\&quot;60\&quot; x=\&quot;250\&quot; y=\&quot;350\&quot; as=\&quot;geometry\&quot; /&gt;\n        &lt;/mxCell&gt;\n        &lt;mxCell id=\&quot;vvv7OHtfVEPnJKbW_BoI-12\&quot; parent=\&quot;1\&quot; style=\&quot;text;html=1;whiteSpace=wrap;strokeColor=none;fillColor=none;align=center;verticalAlign=middle;rounded=0;\&quot; value=\&quot;0...n&amp;amp;nbsp; &amp;amp;nbsp; &amp;amp;nbsp;\&quot; vertex=\&quot;1\&quot;&gt;\n          &lt;mxGeometry height=\&quot;30\&quot; width=\&quot;60\&quot; x=\&quot;10\&quot; y=\&quot;470\&quot; as=\&quot;geometry\&quot; /&gt;\n        &lt;/mxCell&gt;\n        &lt;mxCell id=\&quot;vvv7OHtfVEPnJKbW_BoI-17\&quot; parent=\&quot;1\&quot; style=\&quot;text;strokeColor=none;fillColor=none;align=left;verticalAlign=top;spacingLeft=4;spacingRight=4;overflow=hidden;rotatable=0;points=[[0,0.5],[1,0.5]];portConstraint=eastwest;whiteSpace=wrap;html=1;labelBackgroundColor=none;\&quot; value=\&quot;Dátum exportu\&quot; vertex=\&quot;1\&quot;&gt;\n          &lt;mxGeometry height=\&quot;26\&quot; width=\&quot;160\&quot; x=\&quot;-40\&quot; y=\&quot;432\&quot; as=\&quot;geometry\&quot; /&gt;\n        &lt;/mxCell&gt;\n        &lt;mxCell id=\&quot;cHTT3dFJlnLi15qpV_ud-1\&quot; parent=\&quot;1\&quot; style=\&quot;verticalAlign=top;align=left;overflow=fill;html=1;whiteSpace=wrap;labelBackgroundColor=none;\&quot; value=\&quot;&amp;lt;p style=&amp;quot;text-align: center; margin: 4px 0px 0px;&amp;quot;&amp;gt;Produkt&amp;lt;/p&amp;gt;&amp;lt;hr size=&amp;quot;1&amp;quot; style=&amp;quot;border-style:solid;&amp;quot;&amp;gt;&amp;lt;p style=&amp;quot;margin:0px;margin-left:4px;&amp;quot;&amp;gt;&amp;lt;/p&amp;gt;&amp;lt;p style=&amp;quot;margin:0px;margin-left:4px;&amp;quot;&amp;gt;&amp;lt;span style=&amp;quot;background-color: transparent; color: light-dark(rgb(0, 0, 0), rgb(255, 255, 255));&amp;quot;&amp;gt;&amp;amp;lt;&amp;amp;lt;PK&amp;amp;gt;&amp;amp;gt; ID produktu&amp;lt;/span&amp;gt;&amp;lt;/p&amp;gt;\&quot; vertex=\&quot;1\&quot;&gt;\n          &lt;mxGeometry height=\&quot;190\&quot; width=\&quot;160\&quot; x=\&quot;600\&quot; y=\&quot;292\&quot; as=\&quot;geometry\&quot; /&gt;\n        &lt;/mxCell&gt;\n        &lt;mxCell id=\&quot;cHTT3dFJlnLi15qpV_ud-2\&quot; edge=\&quot;1\&quot; parent=\&quot;1\&quot; source=\&quot;cHTT3dFJlnLi15qpV_ud-1\&quot; style=\&quot;edgeStyle=orthogonalEdgeStyle;rounded=0;orthogonalLoop=1;jettySize=auto;html=1;exitX=0.5;exitY=1;exitDx=0;exitDy=0;labelBackgroundColor=none;fontColor=default;\&quot; target=\&quot;cHTT3dFJlnLi15qpV_ud-1\&quot;&gt;\n          &lt;mxGeometry relative=\&quot;1\&quot; as=\&quot;geometry\&quot; /&gt;\n        &lt;/mxCell&gt;\n        &lt;mxCell id=\&quot;cHTT3dFJlnLi15qpV_ud-3\&quot; edge=\&quot;1\&quot; parent=\&quot;1\&quot; source=\&quot;cHTT3dFJlnLi15qpV_ud-1\&quot; style=\&quot;edgeStyle=orthogonalEdgeStyle;rounded=0;orthogonalLoop=1;jettySize=auto;html=1;exitX=0.5;exitY=1;exitDx=0;exitDy=0;labelBackgroundColor=none;fontColor=default;\&quot; target=\&quot;cHTT3dFJlnLi15qpV_ud-1\&quot;&gt;\n          &lt;mxGeometry relative=\&quot;1\&quot; as=\&quot;geometry\&quot; /&gt;\n        &lt;/mxCell&gt;\n        &lt;mxCell id=\&quot;cHTT3dFJlnLi15qpV_ud-4\&quot; parent=\&quot;1\&quot; style=\&quot;text;strokeColor=none;fillColor=none;align=left;verticalAlign=top;spacingLeft=4;spacingRight=4;overflow=hidden;rotatable=0;points=[[0,0.5],[1,0.5]];portConstraint=eastwest;whiteSpace=wrap;html=1;labelBackgroundColor=none;\&quot; value=\&quot;Názov\&quot; vertex=\&quot;1\&quot;&gt;\n          &lt;mxGeometry height=\&quot;30\&quot; width=\&quot;160\&quot; x=\&quot;600\&quot; y=\&quot;342\&quot; as=\&quot;geometry\&quot; /&gt;\n        &lt;/mxCell&gt;\n        &lt;mxCell id=\&quot;cHTT3dFJlnLi15qpV_ud-5\&quot; parent=\&quot;1\&quot; style=\&quot;text;strokeColor=none;fillColor=none;align=left;verticalAlign=top;spacingLeft=4;spacingRight=4;overflow=hidden;rotatable=0;points=[[0,0.5],[1,0.5]];portConstraint=eastwest;whiteSpace=wrap;html=1;labelBackgroundColor=none;\&quot; value=\&quot;Popis\&quot; vertex=\&quot;1\&quot;&gt;\n          &lt;mxGeometry height=\&quot;30\&quot; width=\&quot;160\&quot; x=\&quot;600\&quot; y=\&quot;370\&quot; as=\&quot;geometry\&quot; /&gt;\n        &lt;/mxCell&gt;\n        &lt;mxCell id=\&quot;cHTT3dFJlnLi15qpV_ud-6\&quot; parent=\&quot;1\&quot; style=\&quot;text;strokeColor=none;fillColor=none;align=left;verticalAlign=top;spacingLeft=4;spacingRight=4;overflow=hidden;rotatable=0;points=[[0,0.5],[1,0.5]];portConstraint=eastwest;whiteSpace=wrap;html=1;labelBackgroundColor=none;\&quot; value=\&quot;Cena\&quot; vertex=\&quot;1\&quot;&gt;\n          &lt;mxGeometry height=\&quot;30\&quot; width=\&quot;160\&quot; x=\&quot;600\&quot; y=\&quot;396.95\&quot; as=\&quot;geometry\&quot; /&gt;\n        &lt;/mxCell&gt;\n        &lt;mxCell id=\&quot;cHTT3dFJlnLi15qpV_ud-7\&quot; parent=\&quot;1\&quot; style=\&quot;text;strokeColor=none;fillColor=none;align=left;verticalAlign=top;spacingLeft=4;spacingRight=4;overflow=hidden;rotatable=0;points=[[0,0.5],[1,0.5]];portConstraint=eastwest;whiteSpace=wrap;html=1;labelBackgroundColor=none;\&quot; value=\&quot;Množtvo na sklade\&quot; vertex=\&quot;1\&quot;&gt;\n          &lt;mxGeometry height=\&quot;30\&quot; width=\&quot;160\&quot; x=\&quot;600\&quot; y=\&quot;426\&quot; as=\&quot;geometry\&quot; /&gt;\n        &lt;/mxCell&gt;\n        &lt;mxCell id=\&quot;cHTT3dFJlnLi15qpV_ud-8\&quot; parent=\&quot;1\&quot; style=\&quot;text;strokeColor=none;fillColor=none;align=left;verticalAlign=top;spacingLeft=4;spacingRight=4;overflow=hidden;rotatable=0;points=[[0,0.5],[1,0.5]];portConstraint=eastwest;whiteSpace=wrap;html=1;labelBackgroundColor=none;\&quot; value=\&quot;Veľkosť balenia\&quot; vertex=\&quot;1\&quot;&gt;\n          &lt;mxGeometry height=\&quot;30\&quot; width=\&quot;160\&quot; x=\&quot;600\&quot; y=\&quot;452\&quot; as=\&quot;geometry\&quot; /&gt;\n        &lt;/mxCell&gt;\n        &lt;mxCell id=\&quot;cHTT3dFJlnLi15qpV_ud-10\&quot; edge=\&quot;1\&quot; parent=\&quot;1\&quot; source=\&quot;fOH65YB3iZgLwqnxdQXM-48\&quot; style=\&quot;rounded=0;orthogonalLoop=1;jettySize=auto;html=1;entryX=0;entryY=0.5;entryDx=0;entryDy=0;endArrow=none;endFill=0;exitX=1;exitY=0.5;exitDx=0;exitDy=0;\&quot; target=\&quot;vvv7OHtfVEPnJKbW_BoI-4\&quot;&gt;\n          &lt;mxGeometry relative=\&quot;1\&quot; as=\&quot;geometry\&quot; /&gt;\n        &lt;/mxCell&gt;\n        &lt;mxCell id=\&quot;cHTT3dFJlnLi15qpV_ud-15\&quot; parent=\&quot;1\&quot; style=\&quot;swimlane;fontStyle=0;childLayout=stackLayout;horizontal=1;startSize=26;fillColor=none;horizontalStack=0;resizeParent=1;resizeParentMax=0;resizeLast=0;collapsible=1;marginBottom=0;whiteSpace=wrap;html=1;labelBackgroundColor=none;\&quot; value=\&quot;Doplnkový tovar\&quot; vertex=\&quot;1\&quot;&gt;\n          &lt;mxGeometry height=\&quot;52\&quot; width=\&quot;140\&quot; x=\&quot;720\&quot; y=\&quot;584\&quot; as=\&quot;geometry\&quot; /&gt;\n        &lt;/mxCell&gt;\n        &lt;mxCell id=\&quot;cHTT3dFJlnLi15qpV_ud-16\&quot; parent=\&quot;cHTT3dFJlnLi15qpV_ud-15\&quot; style=\&quot;text;strokeColor=none;fillColor=none;align=left;verticalAlign=top;spacingLeft=4;spacingRight=4;overflow=hidden;rotatable=0;points=[[0,0.5],[1,0.5]];portConstraint=eastwest;whiteSpace=wrap;html=1;labelBackgroundColor=none;\&quot; value=\&quot;Kategória tovaru\&quot; vertex=\&quot;1\&quot;&gt;\n          &lt;mxGeometry height=\&quot;26\&quot; width=\&quot;140\&quot; y=\&quot;26\&quot; as=\&quot;geometry\&quot; /&gt;\n        &lt;/mxCell&gt;\n        &lt;mxCell id=\&quot;6bjuTnTcS4K2Bi_HGJ2q-1\&quot; edge=\&quot;1\&quot; parent=\&quot;1\&quot; style=\&quot;endArrow=none;html=1;rounded=0;\&quot; value=\&quot;\&quot;&gt;\n          &lt;mxGeometry height=\&quot;50\&quot; relative=\&quot;1\&quot; width=\&quot;50\&quot; as=\&quot;geometry\&quot;&gt;\n            &lt;mxPoint x=\&quot;580\&quot; y=\&quot;540\&quot; as=\&quot;sourcePoint\&quot; /&gt;\n            &lt;mxPoint x=\&quot;790\&quot; y=\&quot;540\&quot; as=\&quot;targetPoint\&quot; /&gt;\n          &lt;/mxGeometry&gt;\n        &lt;/mxCell&gt;\n        &lt;mxCell id=\&quot;6bjuTnTcS4K2Bi_HGJ2q-3\&quot; edge=\&quot;1\&quot; parent=\&quot;1\&quot; style=\&quot;endArrow=none;html=1;rounded=0;\&quot; value=\&quot;\&quot;&gt;\n          &lt;mxGeometry height=\&quot;50\&quot; relative=\&quot;1\&quot; width=\&quot;50\&quot; as=\&quot;geometry\&quot;&gt;\n            &lt;Array as=\&quot;points\&quot; /&gt;\n            &lt;mxPoint x=\&quot;790\&quot; y=\&quot;585\&quot; as=\&quot;sourcePoint\&quot; /&gt;\n            &lt;mxPoint x=\&quot;790\&quot; y=\&quot;540\&quot; as=\&quot;targetPoint\&quot; /&gt;\n          &lt;/mxGeometry&gt;\n        &lt;/mxCell&gt;\n        &lt;mxCell id=\&quot;6bjuTnTcS4K2Bi_HGJ2q-9\&quot; edge=\&quot;1\&quot; parent=\&quot;1\&quot; style=\&quot;endArrow=none;html=1;rounded=0;\&quot; value=\&quot;\&quot;&gt;\n          &lt;mxGeometry height=\&quot;50\&quot; relative=\&quot;1\&quot; width=\&quot;50\&quot; as=\&quot;geometry\&quot;&gt;\n            &lt;Array as=\&quot;points\&quot; /&gt;\n            &lt;mxPoint x=\&quot;579.5\&quot; y=\&quot;585\&quot; as=\&quot;sourcePoint\&quot; /&gt;\n            &lt;mxPoint x=\&quot;579.5\&quot; y=\&quot;540\&quot; as=\&quot;targetPoint\&quot; /&gt;\n          &lt;/mxGeometry&gt;\n        &lt;/mxCell&gt;\n        &lt;mxCell id=\&quot;6bjuTnTcS4K2Bi_HGJ2q-11\&quot; parent=\&quot;1\&quot; style=\&quot;swimlane;fontStyle=0;childLayout=stackLayout;horizontal=1;startSize=26;fillColor=none;horizontalStack=0;resizeParent=1;resizeParentMax=0;resizeLast=0;collapsible=1;marginBottom=0;whiteSpace=wrap;html=1;labelBackgroundColor=none;\&quot; value=\&quot;Prispieva na\&quot; vertex=\&quot;1\&quot;&gt;\n          &lt;mxGeometry height=\&quot;78\&quot; width=\&quot;140\&quot; x=\&quot;330\&quot; y=\&quot;710\&quot; as=\&quot;geometry\&quot; /&gt;\n        &lt;/mxCell&gt;\n        &lt;mxCell id=\&quot;6bjuTnTcS4K2Bi_HGJ2q-12\&quot; parent=\&quot;6bjuTnTcS4K2Bi_HGJ2q-11\&quot; style=\&quot;text;strokeColor=none;fillColor=none;align=left;verticalAlign=top;spacingLeft=4;spacingRight=4;overflow=hidden;rotatable=0;points=[[0,0.5],[1,0.5]];portConstraint=eastwest;whiteSpace=wrap;html=1;labelBackgroundColor=none;\&quot; value=\&quot;Výška príspevku\&quot; vertex=\&quot;1\&quot;&gt;\n          &lt;mxGeometry height=\&quot;26\&quot; width=\&quot;140\&quot; y=\&quot;26\&quot; as=\&quot;geometry\&quot; /&gt;\n        &lt;/mxCell&gt;\n        &lt;mxCell id=\&quot;6bjuTnTcS4K2Bi_HGJ2q-14\&quot; parent=\&quot;6bjuTnTcS4K2Bi_HGJ2q-11\&quot; style=\&quot;text;strokeColor=none;fillColor=none;align=left;verticalAlign=top;spacingLeft=4;spacingRight=4;overflow=hidden;rotatable=0;points=[[0,0.5],[1,0.5]];portConstraint=eastwest;whiteSpace=wrap;html=1;labelBackgroundColor=none;\&quot; value=\&quot;Platnosť príspevku\&quot; vertex=\&quot;1\&quot;&gt;\n          &lt;mxGeometry height=\&quot;26\&quot; width=\&quot;140\&quot; y=\&quot;52\&quot; as=\&quot;geometry\&quot; /&gt;\n        &lt;/mxCell&gt;\n        &lt;mxCell id=\&quot;6bjuTnTcS4K2Bi_HGJ2q-13\&quot; edge=\&quot;1\&quot; parent=\&quot;1\&quot; style=\&quot;endArrow=none;dashed=1;html=1;dashPattern=1 3;strokeWidth=2;rounded=0;labelBackgroundColor=none;fontColor=default;\&quot; value=\&quot;\&quot;&gt;\n          &lt;mxGeometry height=\&quot;50\&quot; relative=\&quot;1\&quot; width=\&quot;50\&quot; as=\&quot;geometry\&quot;&gt;\n            &lt;mxPoint x=\&quot;399.5\&quot; y=\&quot;705\&quot; as=\&quot;sourcePoint\&quot; /&gt;\n            &lt;mxPoint x=\&quot;400\&quot; y=\&quot;625\&quot; as=\&quot;targetPoint\&quot; /&gt;\n          &lt;/mxGeometry&gt;\n        &lt;/mxCell&gt;\n        &lt;mxCell id=\&quot;6bjuTnTcS4K2Bi_HGJ2q-16\&quot; edge=\&quot;1\&quot; parent=\&quot;1\&quot; source=\&quot;vvv7OHtfVEPnJKbW_BoI-11\&quot; style=\&quot;edgeStyle=orthogonalEdgeStyle;rounded=0;orthogonalLoop=1;jettySize=auto;html=1;exitX=0.5;exitY=1;exitDx=0;exitDy=0;\&quot; target=\&quot;vvv7OHtfVEPnJKbW_BoI-11\&quot;&gt;\n          &lt;mxGeometry relative=\&quot;1\&quot; as=\&quot;geometry\&quot; /&gt;\n        &lt;/mxCell&gt;\n      &lt;/root&gt;\n    &lt;/mxGraphModel&gt;\n  &lt;/diagram&gt;\n&lt;/mxfile&gt;\n&quot;}"></div>
+<script type="text/javascript" src="https://viewer.diagrams.net/js/viewer-static.min.js"></script>
+</body>
+</html>
